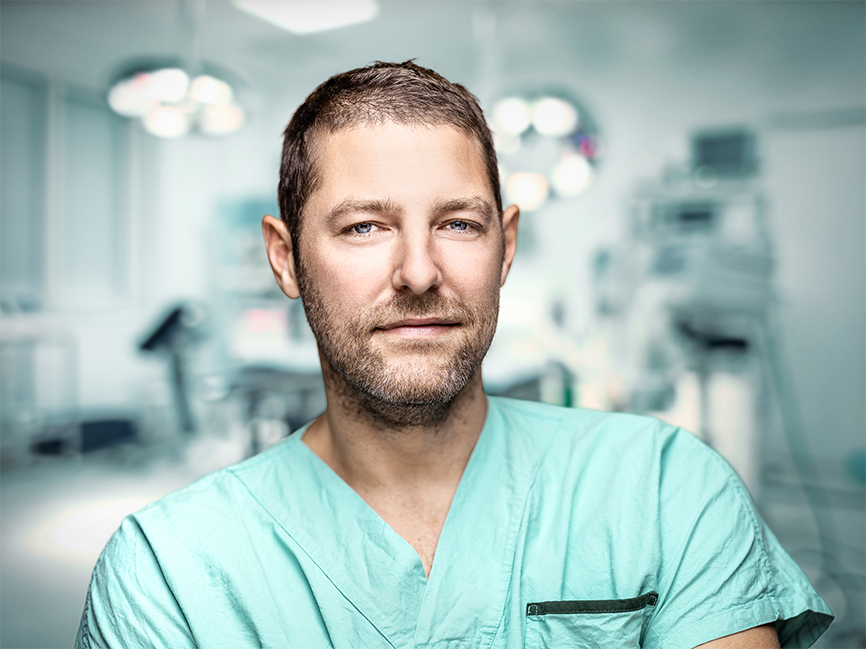
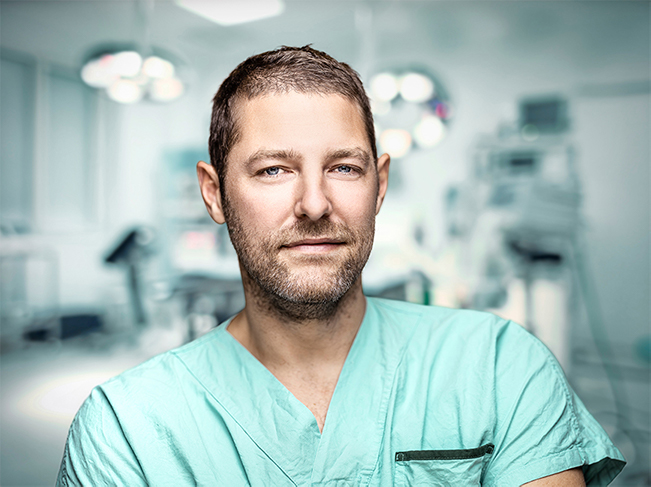
compress images for faster load time

diff --git a/index.html b/index.html
@@ -132,8 +132,8 @@
                 <img class="ordiCardImg" src="images/ordination-aussen2.png" alt="location">
             </div>
             <div class="ordiCont2">
-                <img src="images/Ordi-innen2.png" alt="ordination außen">
-                <img src="images/Ordi-innen.jpg" alt="ordination innen">
+                <img src="images/Ordi-innen2.jpg" alt="ordination innen">
+                <img src="images/Ordi-innen@0,5x.jpg" alt="ordination innen">
             </div>
           </div>
         </section>
